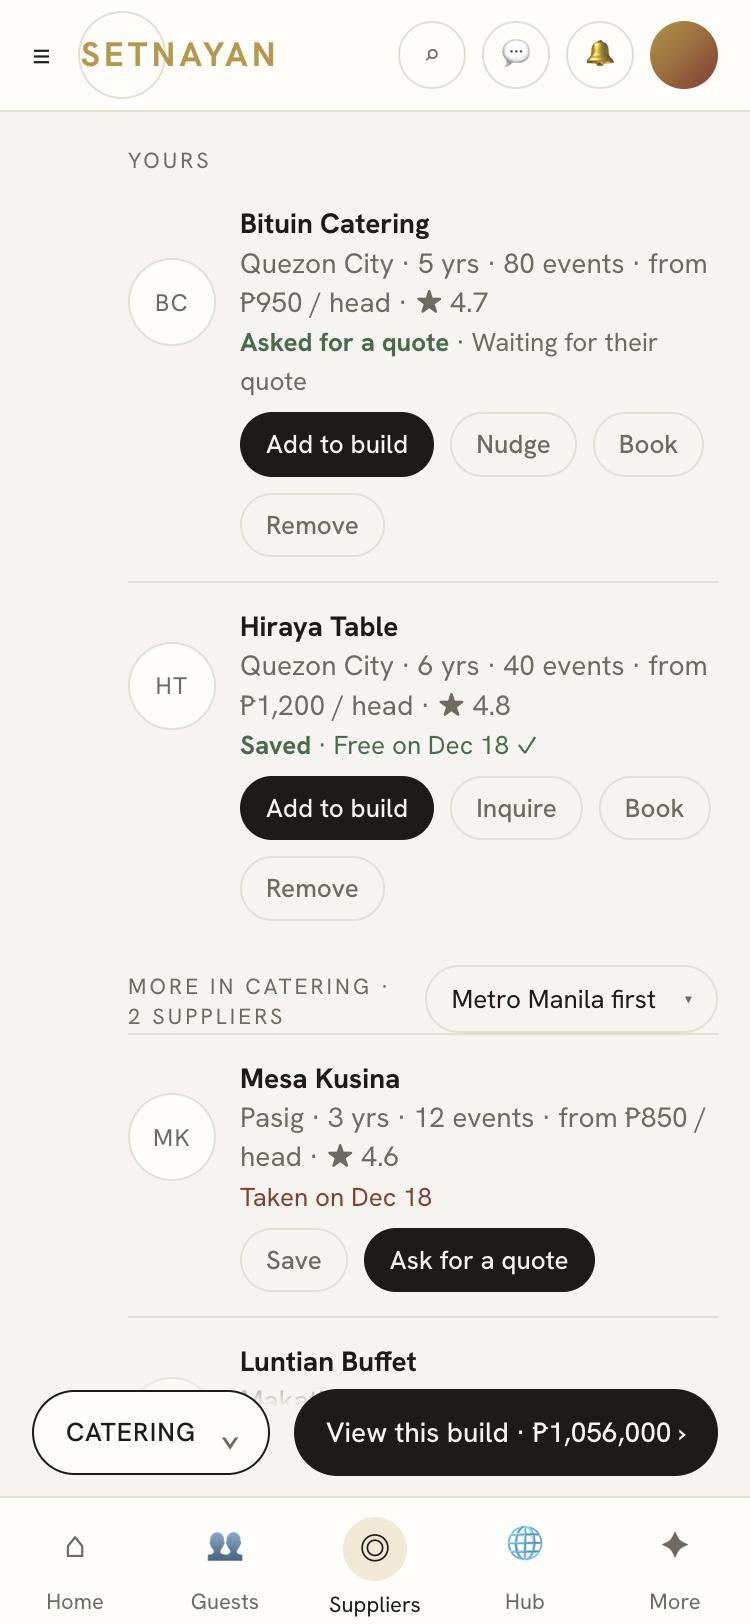
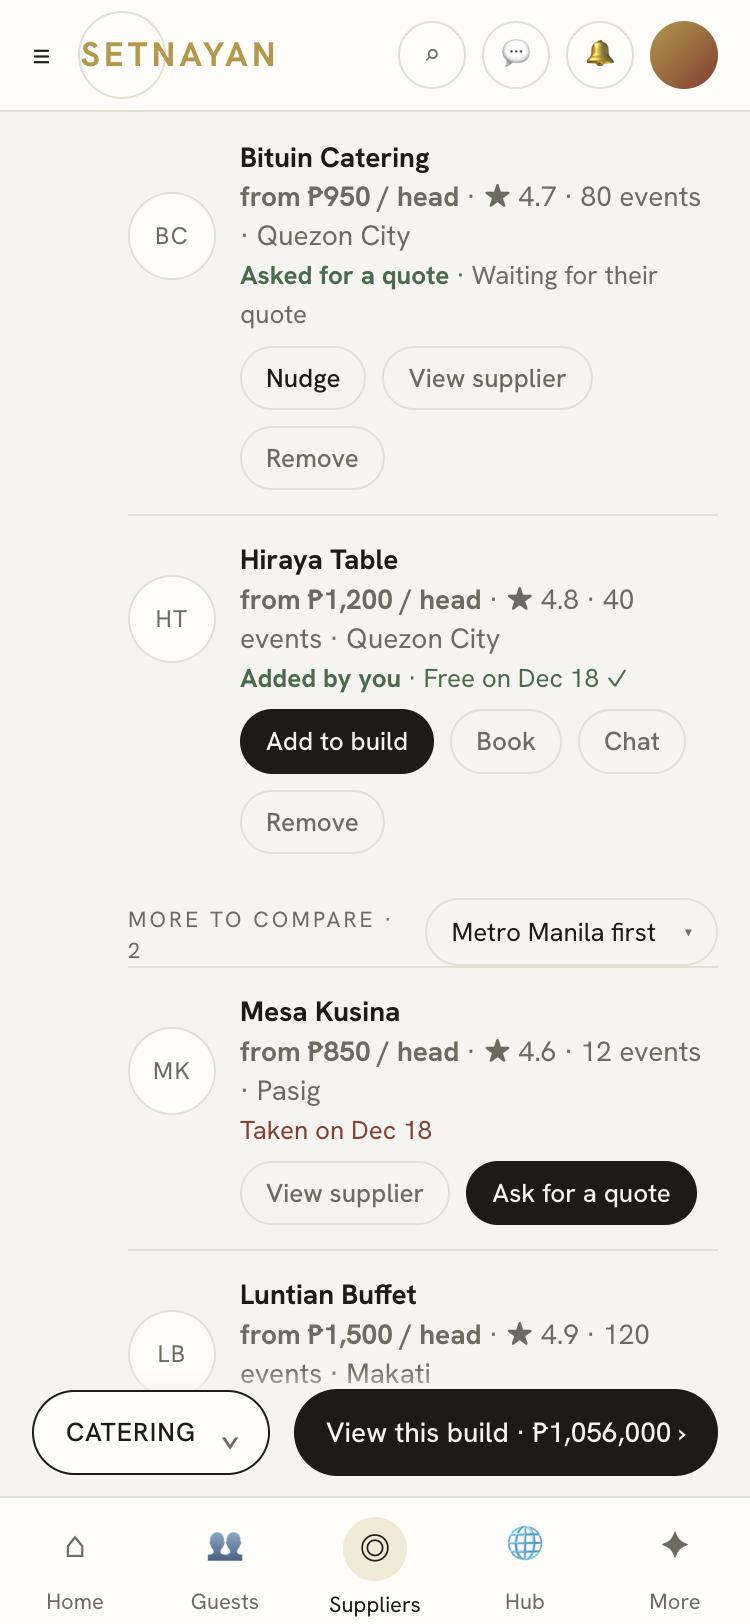
design: Suppliers prototype — View supplier opens the portfolio (the approved shop page as a sheet); state labels

diff --git a/prototypes/suppliers_page_2026-10-07_fable.html b/prototypes/suppliers_page_2026-10-07_fable.html
@@ -452,7 +452,7 @@ section{padding:18px 0 8px}
       :s.status==='waiting'?`<button data-act="nudge" data-id="${s.id}">Nudge</button><button class="quiet" data-act="sheet" data-key="supplier" data-id="${s.id}">View supplier</button><button class="quiet" data-act="remove" data-id="${s.id}">Remove</button>`
       :priceOf(s)!=null?`<button data-act="pick" data-id="${s.id}" class="${S.picks[k]===s.id?'on':''}">${S.picks[k]===s.id?'In your build ✓':'Add to build'}</button><button class="quiet" data-act="book" data-id="${s.id}">Book</button><button class="quiet" data-act="sheet" data-key="chat" data-id="${s.id}">Chat</button><button class="quiet" data-act="remove" data-id="${s.id}">Remove</button>`
       :`<button data-act="ask" data-id="${s.id}" data-cat="${k}">Ask for a quote</button><button class="quiet" data-act="sheet" data-key="supplier" data-id="${s.id}">View supplier</button><button class="quiet" data-act="remove" data-id="${s.id}">Remove</button>`;
-  const stateOf=s=>s.status==='booked'?(s.price!=null?peso(s.price)+' · booked':'No price recorded · booked'):s.status==='quote'?`Quote in · ${peso(s.quote)}`:s.status==='deciding'?'In your build':s.status==='waiting'?'Asked for a quote':(s.price!=null?'Price agreed':'Added by you');
+  const stateOf=s=>s.status==='booked'?(s.price!=null?peso(s.price)+' · booked':'No price recorded · booked'):s.status==='quote'?`Quote in · ${peso(s.quote)}`:s.status==='deciding'?'In your build':s.status==='waiting'?'Asked for a quote':(s.own?(s.price!=null?'Added by you · price agreed':'Added by you'):'Saved');
   const catState=k=>{ const list=S.suppliers.filter(s=>s.cat===k), b=bookedIn(k), cb=coveredBy(k), market=(MARKET[k]||[]).filter(m=>!S.suppliers.some(x=>x.id===m.id)).length;
     return b?{cls:'ok',text:'Booked ✓'}:cb?{cls:'ok',text:`Covered by ${esc(cb.name.split(' ')[0])} ✓`}:list.some(s=>s.status==='quote')?{cls:'wine',text:list.filter(s=>s.status==='quote').length+' quote in'}:list.length?{cls:'wine',text:list.length+' to decide'}:market?{cls:'',text:market+' suppliers'}:{cls:'',text:'Joining soon'}; };
   const money=()=>{ const ks=cats(); const bookedList=S.suppliers.filter(s=>s.status==='booked'), unpriced=bookedList.filter(s=>s.price==null);
